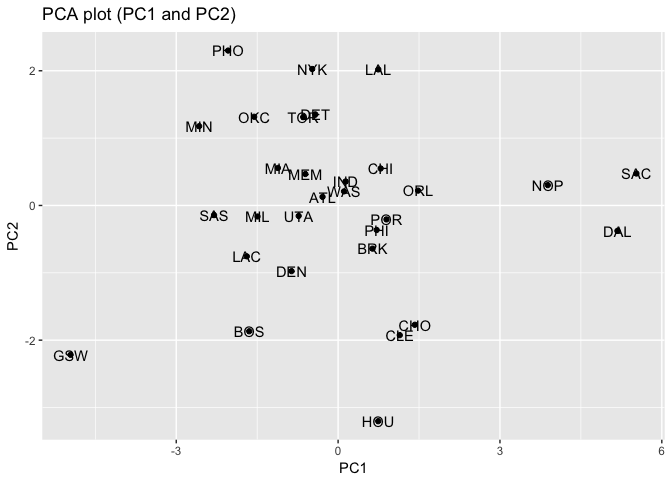
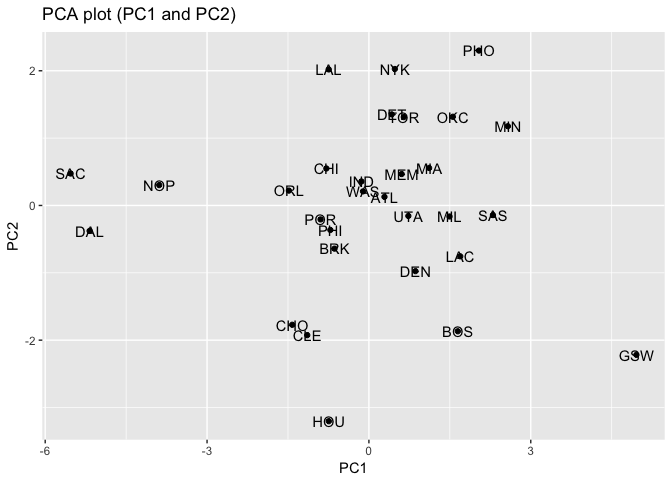
Finished Hw03

diff --git a/hw03/report/hw03-Matt-Brennan.md b/hw03/report/hw03-Matt-Brennan.md
@@ -130,11 +130,24 @@ ev <- pca$sdev^2
 prop <- ev/(sum(ev))
 cumprop <- cumsum(prop)
 pca_df <- data.frame(ev,prop,cumprop)
-pc1 <- -1*pca$x[,1]
+pc1 <- pca$x[,1]
 pc2 <-pca$x[,2]
 teams <- teams %>%
   mutate(PC1 = pc1, PC2 = pc2)
+pca_df
 ```
+
+    ##            ev        prop   cumprop
+    ## 1  4.69588631 0.469588631 0.4695886
+    ## 2  1.70201009 0.170201009 0.6397896
+    ## 3  0.97952464 0.097952464 0.7377421
+    ## 4  0.77171938 0.077171938 0.8149140
+    ## 5  0.53408824 0.053408824 0.8683229
+    ## 6  0.47801622 0.047801622 0.9161245
+    ## 7  0.38220374 0.038220374 0.9543449
+    ## 8  0.26026243 0.026026243 0.9803711
+    ## 9  0.13359274 0.013359274 0.9937304
+    ## 10 0.06269622 0.006269622 1.0000000
 
 scatterplot of first two pcs
 ============================
